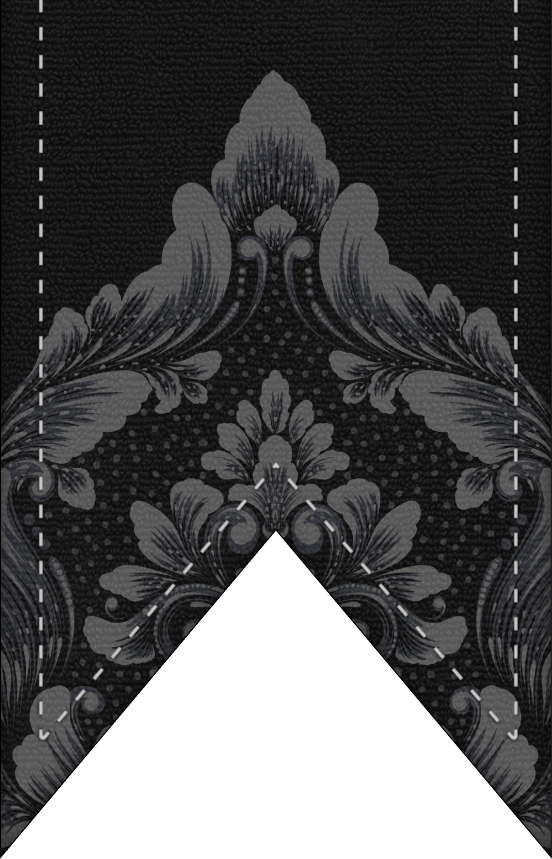
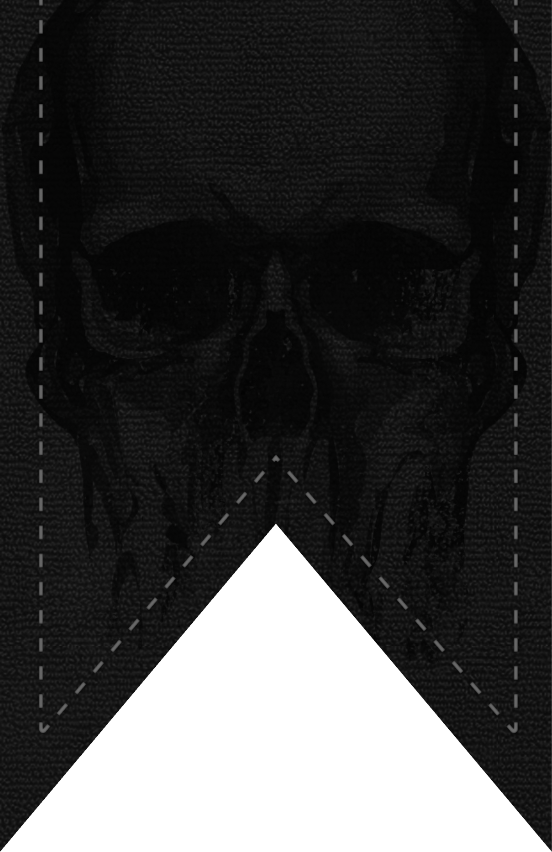
Refine player tag functionality and styles: implement conditional day/night flag display logic, update assets, adjust layout and CSS for better alignment and scaling, and clean up unused styles.

diff --git a/src/app/components/player-tag/player-tag.css b/src/app/components/player-tag/player-tag.css
@@ -1,32 +1,28 @@
 /*SIDE MENUS*/
 .classes_info{
-  cursor: pointer;
   padding-top: 5cqh;
   position: absolute;
   font-family: verdana, sans-serif;
-  font-size: 1.2cqw;
+  font-size: .8cqw;
   right: 0;
   top: 0;
   width: 13%;
-  z-index: 10;
   height: 35cqw;
   align-items: center;
   display: flex;
   flex-direction: column;
   filter: drop-shadow(0px 4cqh 1.5cqh rgba(0, 0, 0, 0.89));
-  cursor: pointer;
 }
 .classes_info::after{
   content: "";
   position: absolute;
   z-index: 10;
   inset: 0;
-  background: linear-gradient(180deg, rgb(0, 0, 0) -10%, rgba(0, 0, 0, 0) 5em);
-  pointer-events: none;/* let clicks pass through */
+  background: linear-gradient(180deg, rgb(0, 0, 0) -10%, rgba(0, 0, 0, 0) 2em);
 }
 
 .round_info{
-  padding-top: 4cqh;
+  padding-top: 2cqw;
   position: absolute;
   font-family: verdana, sans-serif;
   font-size: .8cqw;
@@ -69,20 +65,6 @@
   bottom: -2cqw;
   z-index: -6;
   cursor: pointer;
-}
-
-.night{
-  /*background-image: url("/night.png");*/
-  /*background-repeat: no-repeat;*/
-  /*background-position: top;*/
-  /*background-size: 12cqw;*/
-}
-.day{
-  /*background-image: url("/day.png");*/
-  /*background-repeat: no-repeat;*/
-  /*background-position: top;*/
-  /*background-size: 12cqw;*/
-  /*filter: drop-shadow(0px 4cqh 1.5cqh rgba(0, 0, 0, 0.89));*/
 }
 
 /*PLAYER CONTAINERS*/
@@ -180,7 +162,7 @@
   position: absolute;
   z-index: 2;
   top: -.8cqw;
-  left: 1.0cqw;
+  left: 1.2cqw;
   height: 11.5cqw;
   width: auto;
   pointer-events: none;

diff --git a/src/app/components/player-tag/player-tag.html b/src/app/components/player-tag/player-tag.html
@@ -256,5 +256,14 @@
   }
   <div id="ghost_tag"></div>
 </div>
-<div class="classes_info {{roundCycle}}" (click)="cycleDay()">
+<div class="classes_info">
+  @if(isDay){
+    <img class="top_flag" src="/topFlag.png" alt="">
+    <img class="background_flag" src="/talk_round.png" alt="">
+    <img class="bottom_flag" src="/guillotineFlag.png" alt="">
+  } @else{
+    <img class="top_flag" src="/topFlag.png" alt="">
+    <img class="background_flag" src="/wake_order.png" alt="">
+    <img class="bottom_flag" src="/wakeFlag.png" alt="">
+  }
 </div>
